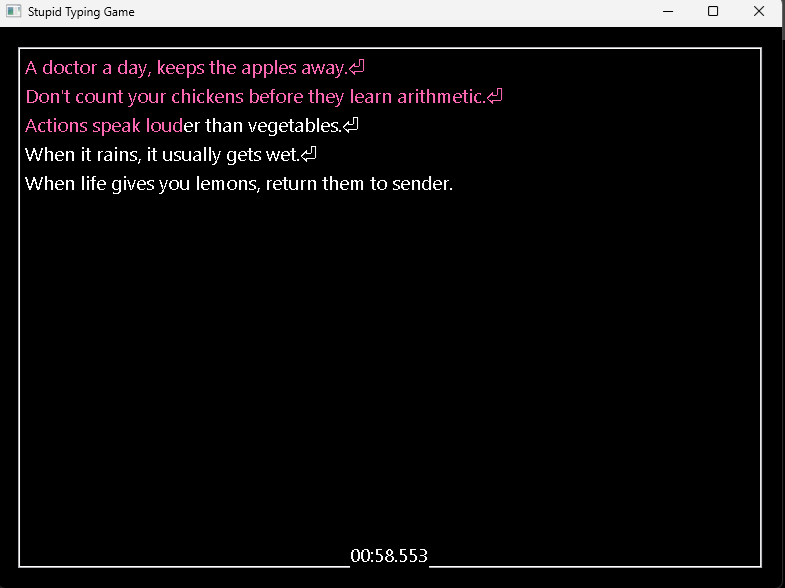
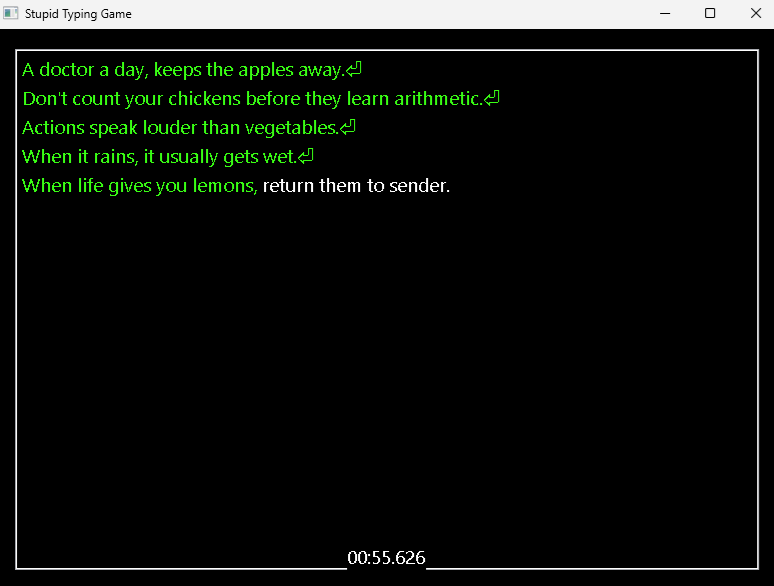
READ ME pimped out. Screenshot replaces. Switched correct character color to green

Changed region(s): [[0.0, 0.0, 1.0, 1.0]]

diff --git a/modules/windows/display_text/coloring.py b/modules/windows/display_text/coloring.py
@@ -10,7 +10,7 @@ def paint_progress(text_control, position, mode="easy"):
     )
 
     style = wx.TextAttr()
-    style.SetTextColour(wx.Colour(255, 105, 180))
+    style.SetTextColour(wx.Colour(57, 255, 20))
 
     text = text_control.GetValue()
 
